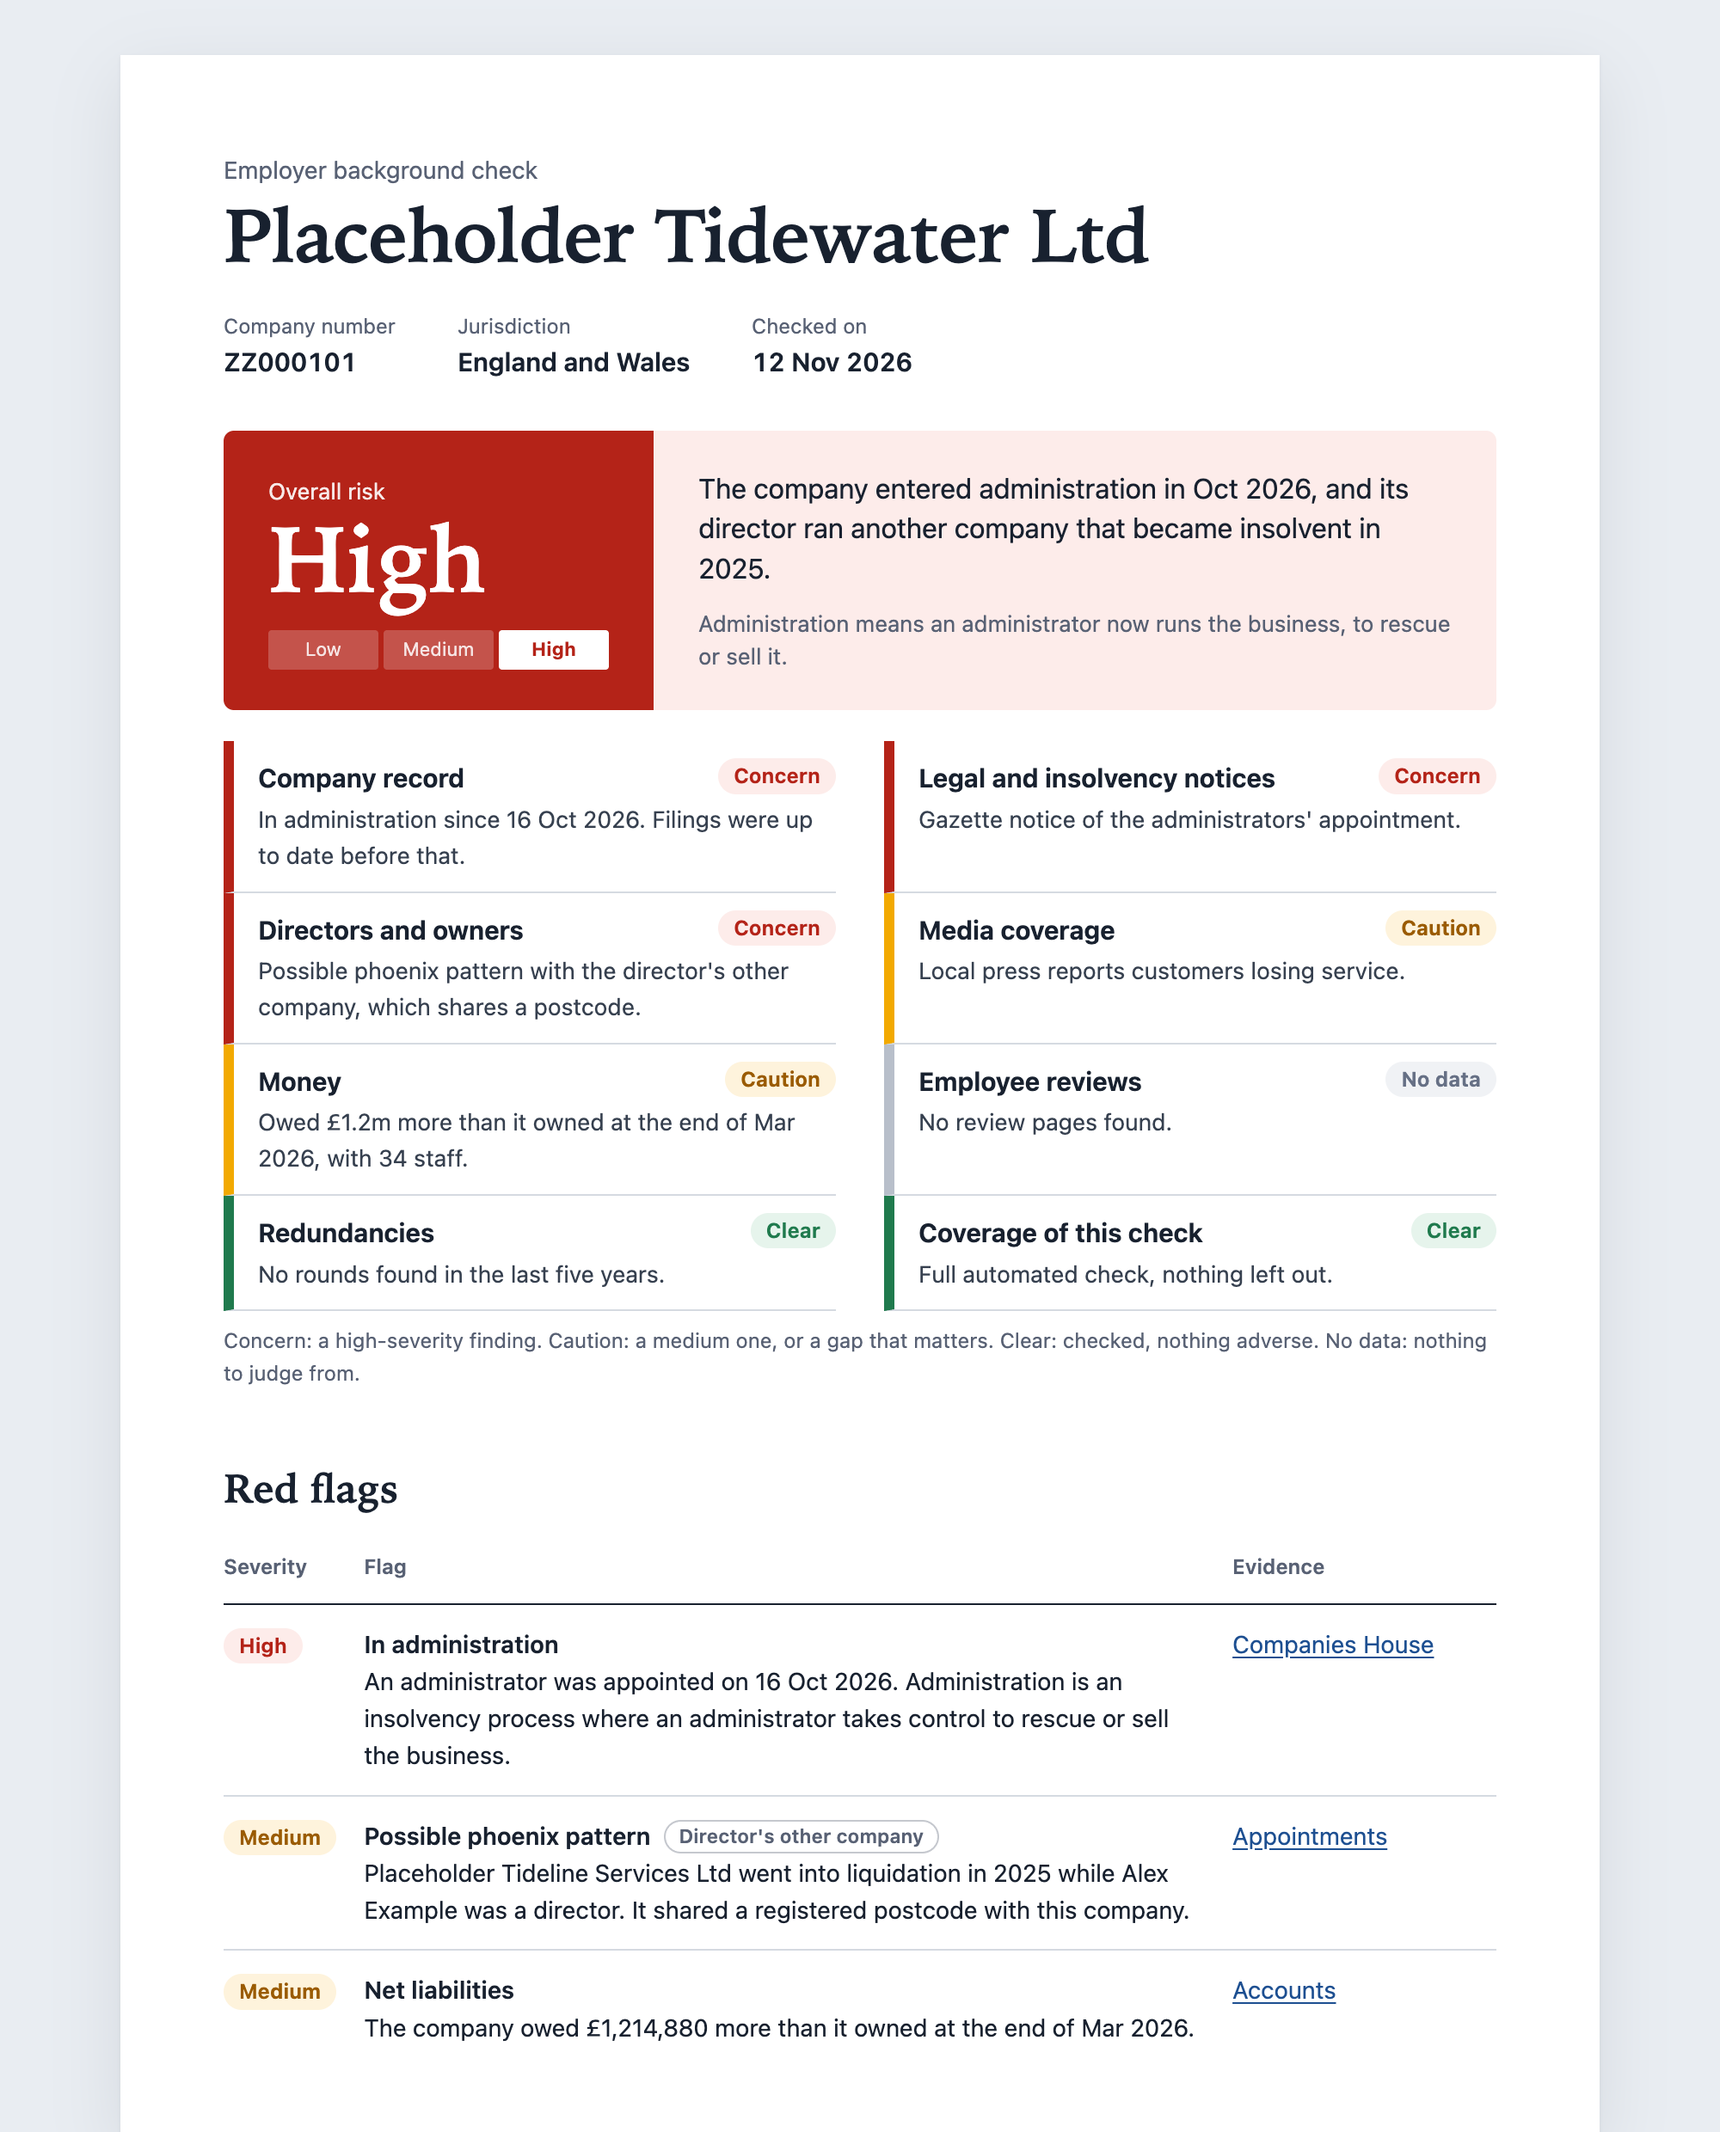
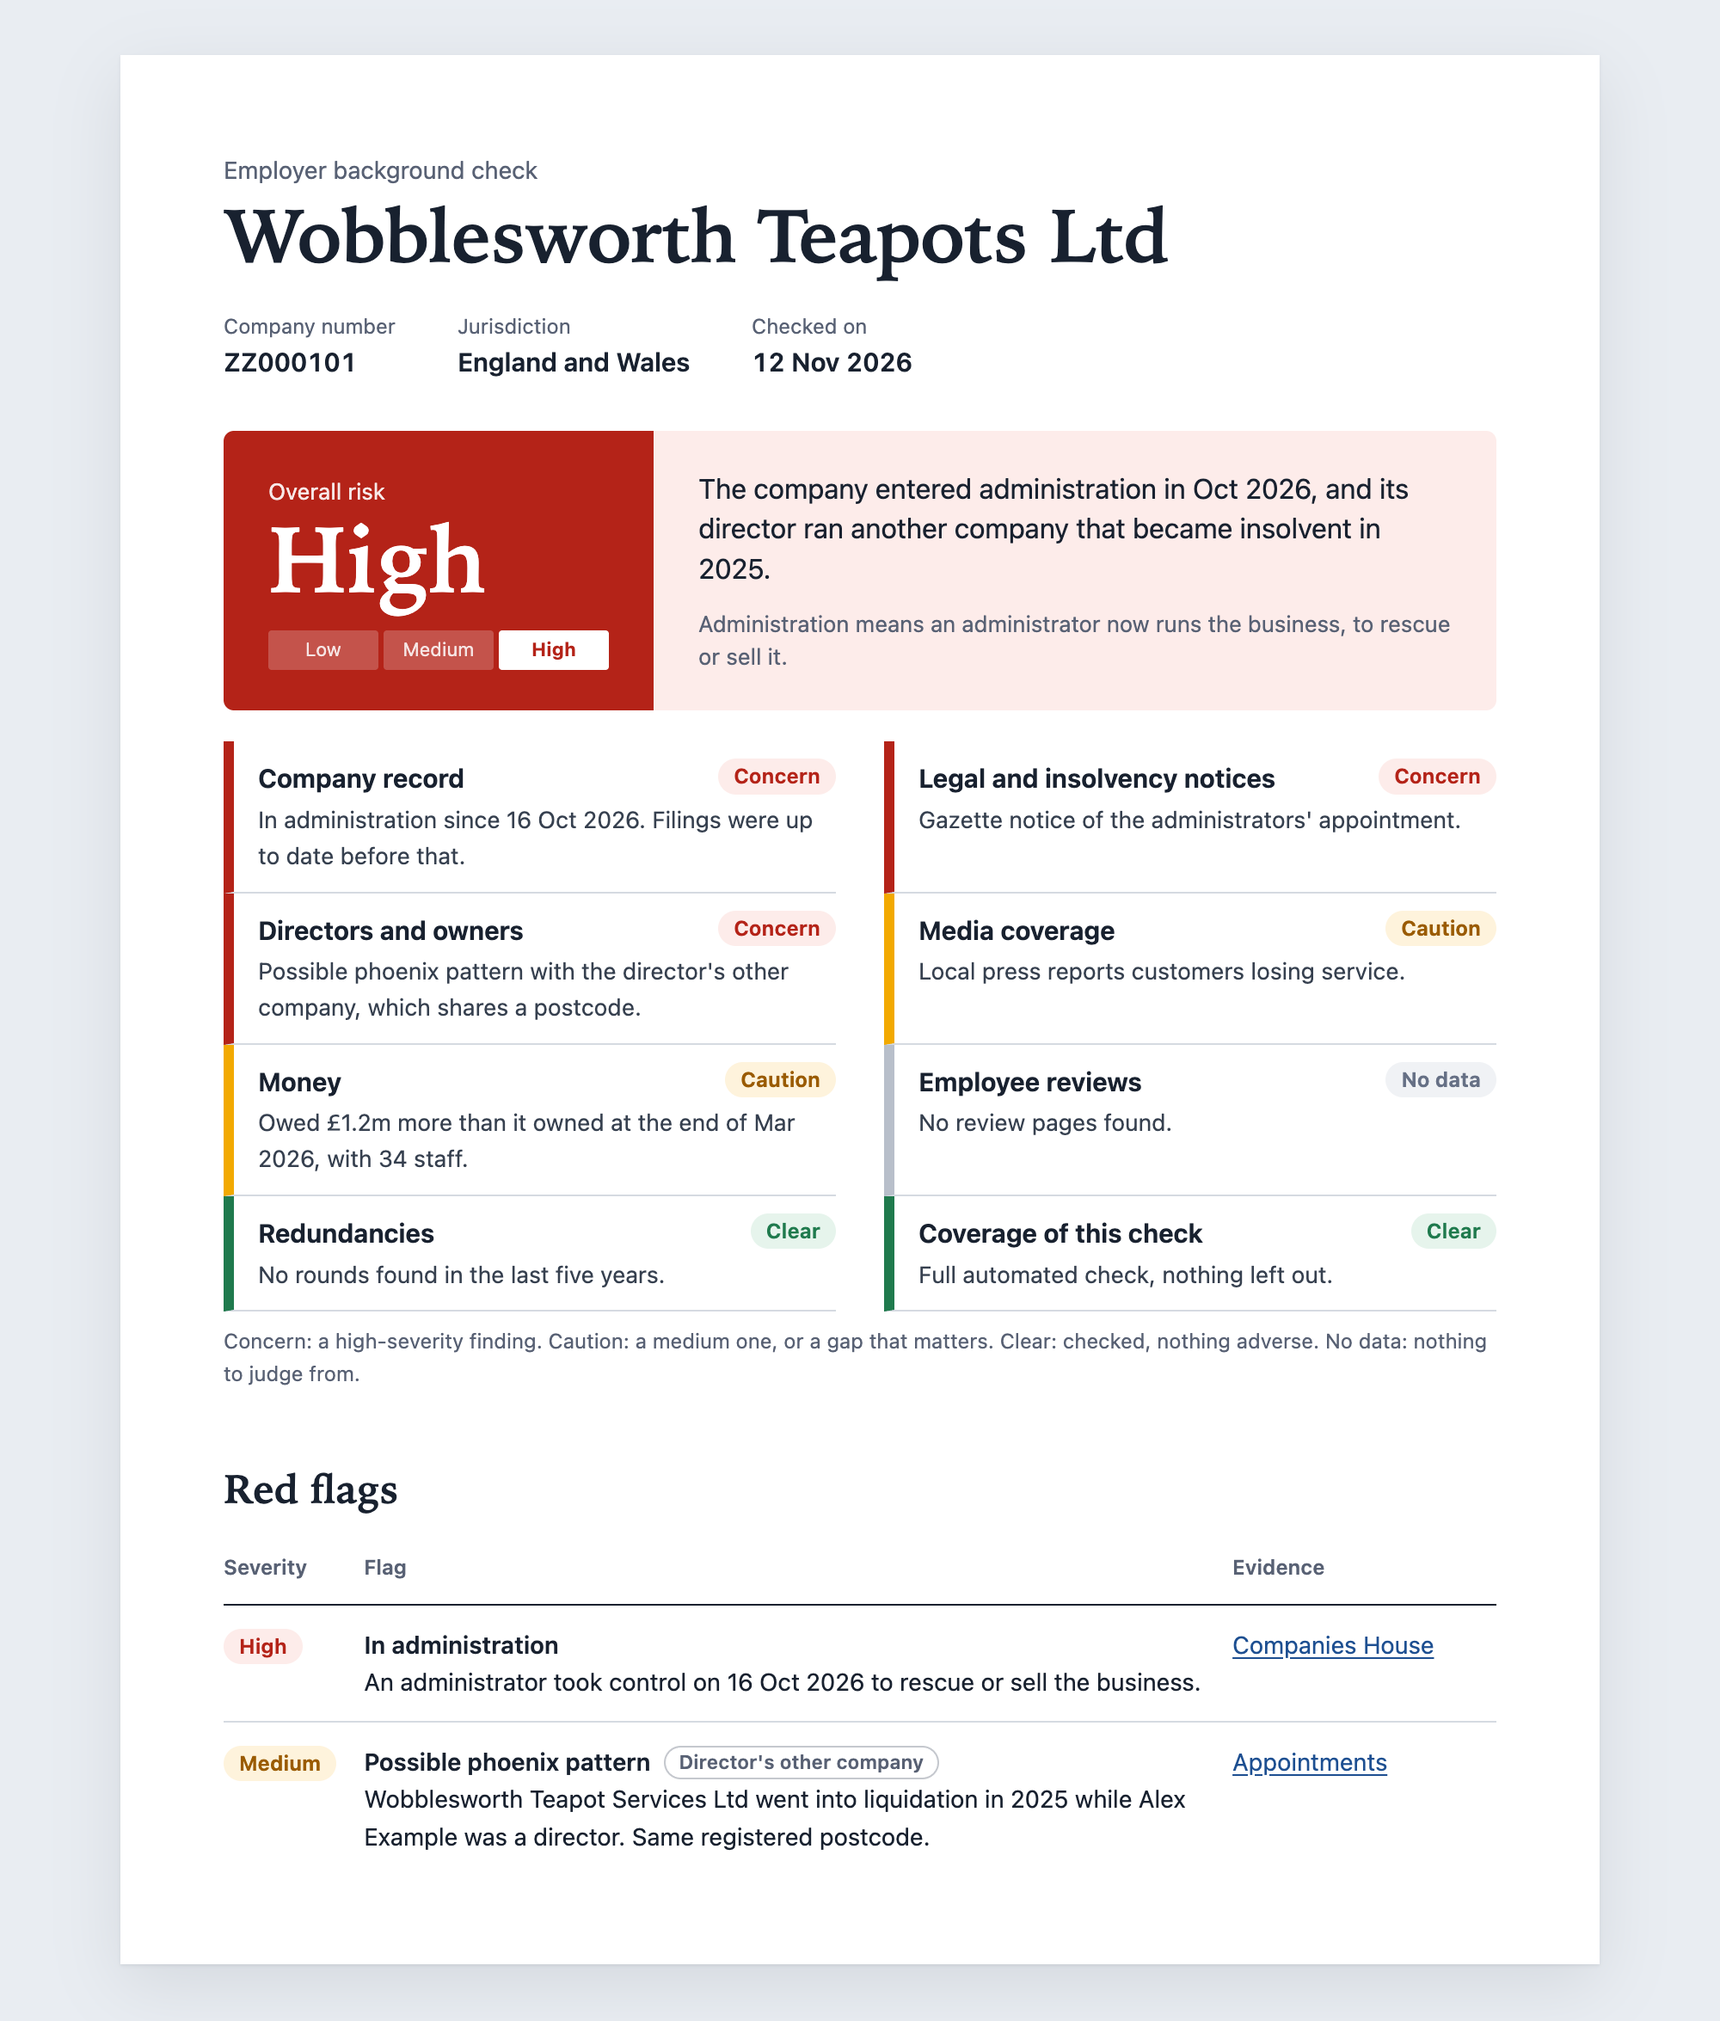
Line up the README samples and give them sillier names

Changed region(s): [[0.062, 0.0621, 0.93, 1.0], [0.713, 0.8077, 0.837, 0.9009], [0.713, 0.7145, 0.837, 0.7766]]

diff --git a/README.md b/README.md
@@ -7,11 +7,9 @@
 An agent skill that runs a background check on a UK company from the point of view of someone who works there, or is thinking about it. Give it a company name or number and it produces a printable HTML report with a risk rating and scorecard at the top and the evidence underneath. It works with Claude Code, Codex, Cursor and other agents that support skills.
 
 <p>
-  <img src=".github/sample-high.png" width="49%" alt="Sample report rated High: a made-up company in administration, with a possible phoenix pattern on its director's other company">
-  <img src=".github/sample-low.png" width="49%" alt="Sample report rated Low: a made-up company with growing net assets and nothing adverse on the record">
+  <img src=".github/sample-high.png" width="49%" alt="Sample report rated High: Wobblesworth Teapots Ltd, a made-up company in administration, with a possible phoenix pattern on its director's other company">
+  <img src=".github/sample-low.png" width="49%" alt="Sample report rated Low: Sunny Badger Software Ltd, a made-up company with growing net assets and nothing adverse on the record">
 </p>
-
-The top of two sample reports. Both companies are made up.
 
 ## What it checks
 
